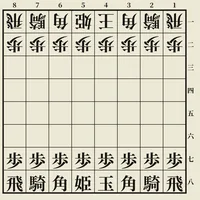
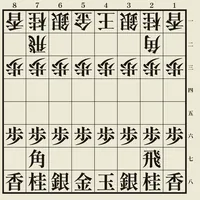
feat(game): the ōgi of the gold general and the free gold

diff --git a/gemu/index.html b/gemu/index.html
@@ -8,7 +8,7 @@
     <meta http-equiv="Content-Security-Policy" content="default-src 'self'; style-src 'self' 'unsafe-inline'">
 
     <meta name="viewport" content="width=device-width,initial-scale=1">
-    <meta name="description" content="王棋（おうぎ）は8x8の盤上で行われる将棋の変種です。このゲームでは「姫」という独特の駒と昇進ルールが特徴です。">
+    <meta name="description" content="王棋（おうぎ）は8x8の盤上で行われる将棋の変種です。王将の隣に立つ一枚だけの金将が、「姫」の字を記した奔金に成ることが特徴です。">
     <meta name="keywords" content="王棋, 将棋, 姫, 戦略ゲーム, ボードゲーム, 駒妖, 日本のゲーム">
     <meta name="robots" content="index,follow">
     <meta name="author" content="Cyril Veltin">
@@ -22,7 +22,7 @@
     <meta property="og:site_name" content="駒妖">
     <meta property="og:locale" content="ja_JP">
     <meta property="og:title" content="姫遊び｜関西の王棋">
-    <meta property="og:description" content="王棋（おうぎ）は8x8の盤上で行われる将棋の変種です。このゲームでは「姫」という独特の駒と昇進ルールが特徴です。">
+    <meta property="og:description" content="王棋（おうぎ）は8x8の盤上で行われる将棋の変種です。王将の隣に立つ一枚だけの金将が、「姫」の字を記した奔金に成ることが特徴です。">
     <meta property="og:type" content="article">
     <meta property="og:url" content="https://ja.komayo.page/gemu/">
     <meta property="og:image" content="https://ja.komayo.page/gemu/img/japanese-ghost-shogi-players-moonlight-temple-illustration,w_1024.webp">
@@ -31,11 +31,11 @@
     <meta property="og:image:alt" content="満月の夜、寺院の五重塔を背景に将棋を指す二人の男性。青い着物を纏った女性の幽霊が、月明かりに照らされながら静かに彼らを見つめている水墨画風のイラスト。">
     <meta property="og:article:author" content="Cyril Veltin">
     <meta property="og:article:published_time" content="2023-01-01">
-    <meta property="og:article:modified_time" content="2026-07-12">
+    <meta property="og:article:modified_time" content="2026-11-07">
 
     <meta name="twitter:card" content="summary_large_image">
     <meta name="twitter:title" content="姫遊び｜関西の王棋">
-    <meta name="twitter:description" content="王棋（おうぎ）は8x8の盤上で行われる将棋の変種です。このゲームでは「姫」という独特の駒と昇進ルールが特徴です。">
+    <meta name="twitter:description" content="王棋（おうぎ）は8x8の盤上で行われる将棋の変種です。王将の隣に立つ一枚だけの金将が、「姫」の字を記した奔金に成ることが特徴です。">
     <meta name="twitter:image" content="https://ja.komayo.page/gemu/img/japanese-ghost-shogi-players-moonlight-temple-illustration,w_1024.webp">
 
     <link rel="alternate" hreflang="x-default" href="https://en.komayo.page/game/">
@@ -67,12 +67,12 @@
           "name": "王棋",
           "headline": "姫遊び",
           "alternateName": ["王棋", "おうぎ", "姫遊び", "Hime Asobi"],
-          "description": "王棋（おうぎ）は8x8の盤上で行われる将棋の変種です。このゲームでは「姫」という独特の駒と昇進ルールが特徴です。",
-          "abstract": "将棋の8x8盤バリエーション。新しい駒「姫」の導入と従来のルールの一部変更が特徴。",
+          "description": "王棋（おうぎ）は8x8の盤上で行われる将棋の変種です。王将の隣に立つ一枚だけの金将が、「姫」の字を記した奔金に成ることが特徴です。",
+          "abstract": "将棋の駒組みを8x8盤に移した将棋の変種。一枚だけの金将が奔金（駒の字は「姫」）に成る。",
           "image": "https://ja.komayo.page/gemu/img/japanese-ghost-shogi-players-moonlight-temple-illustration,w_1024.webp",
           "thumbnailUrl": "https://ja.komayo.page/gemu/img/japanese-ghost-shogi-players-moonlight-temple-illustration,w_200.webp",
           "datePublished": "2023-01-01",
-          "dateModified": "2026-07-12",
+          "dateModified": "2026-11-07",
           "author": {
             "@type": "Person",
             "@id": "https://cyrilvelt.in/#identity",
@@ -107,7 +107,7 @@
             "maxValue": 2
           },
           "gameLocation": ["盤上", "オンライン"],
-          "characterAttribute": ["王将", "姫", "飛車", "角行", "騎行", "歩兵", "と金"],
+          "characterAttribute": ["王将", "金将", "奔金", "飛車", "龍王", "角行", "龍馬", "銀将", "桂馬", "香車", "歩兵", "と金"],
           "audience": {
             "@type": "Audience",
             "audienceType": "戦略ゲーム愛好家"
@@ -171,7 +171,7 @@
             itemprop="hasPart"
             itemscope
             itemtype="https://schema.org/Book"><cite itemprop="headline" lang="fr">La Genèse de l'Enchanteresse</cite></a>の主人公に由来しています。
-          この二つの呼び名は、ゲームにおいて姫が王と並んで戦略の中心的役割を担っているという特徴を反映しています。
+          この二つの呼び名は、王将の隣に立ち、成ると「姫」の字を現す金将という、このゲームならではの駒を映しています。
         </p>
 
         <h2>初期配置</h2>
@@ -189,7 +189,7 @@
               img/traditional-ogi-shogi-variant-starting-position-japanese-chess-diagram,w_862.webp 862w,
               img/traditional-ogi-shogi-variant-starting-position-japanese-chess-diagram,w_1024.webp 1024w"
             src="img/traditional-ogi-shogi-variant-starting-position-japanese-chess-diagram,w_1024.webp"
-            alt="8×8の盤上の王棋の初期配置。白黒の図には、漢字で記された各陣営の飛車・騎行・角行・姫・王将が最初の段に、8枚の歩兵が二段目に並んでいます。列は上部に8から1の算用数字で、段は右側に一から八の漢数字で示されています。"
+            alt="8×8の盤上の王棋の初期配置。白黒の図には、漢字で記された各陣営の香車・桂馬・銀将・金将・王将・銀将・桂馬・香車が最初の段に、飛車と角行が二段目に、8枚の歩兵が三段目に並んでいます。列は上部に8から1の算用数字で、段は右側に一から八の漢数字で示されています。"
           >
         </picture>
 
@@ -206,21 +206,14 @@
           <dt>駒の構成</dt>
           <dd>
             <ul>
-              <li>金将、銀将、香車は除外されています。</li>
-              <li>各陣営には飛車と角行が2枚ずつあります（将棋では各1枚）。</li>
-              <li>桂馬は、西洋チェスのナイトのように前後左右8方向へ跳べる<q>騎行</q>に置き換えられています。</li>
-              <li>新しい駒<q>姫</q>が導入されています。姫は角行と騎行の動きを併せ持ちます。</li>
+              <li>金将は各陣営に一枚だけです（将棋では二枚）。王将の隣に立ち、西洋チェスのクイーンのように、両陣営とも同じ筋に置かれます。</li>
+              <li>筋が一つ少ないため、歩兵は九枚ではなく八枚で、各陣営の駒は全部で18枚（将棋では20枚）です。</li>
+              <li>飛車・角行・銀将・桂馬・香車は将棋と同じです。</li>
             </ul>
           </dd>
 
           <dt>成り</dt>
-          <dd>成りを持つ駒は歩兵のみで、成るとと金になります。と金は、除外された金将の動きを受け継ぎます。成りの領域は最終段だけに縮小され、そこでの成りは強制かつ自動です。</dd>
-
-          <dt>二マス前進</dt>
-          <dd>まだ一度も動いていない歩兵は、一手で二マス前進できます。西洋チェスからの借用ですが、歩兵は正面の駒しか取れないため、アンパッサンはありません。</dd>
-
-          <dt>キャスリング</dt>
-          <dd>王将は、どちらの飛車とも西洋チェスとまったく同じようにキャスリングできます。王将をまだ動いていない飛車の方向へ二マス動かし、飛車は王将が通過したマスに置かれます。持ち駒から打たれた飛車は元のマスを離れているため、キャスリングには使えません。</dd>
+          <dd>将棋の金将とは異なり、王棋の金将は成ることができます。成ると奔金になり、その駒には<q>姫</q>の字が記されています。奔金は飛車のように縦横へ何マスでも進めるほか、斜め前の二方向にも何マスでも進めます。その他の駒は、将棋と同じく敵陣三段で成ります。</dd>
 
           <dt>終局</dt>
           <dd>ステイルメイト（手詰まり）と同一局面の三回出現は、チェスと同様に引き分けです&#8239;—&#8239;将棋では手詰まりは負けとなり、千日手の成立には四回を要します。50手ルールも適用されます。</dd>
@@ -258,7 +251,7 @@
 
     <footer>
       <p>
-        完全なルールは<a href="https://ja.ogi.page/" rel="external" title="王のゲーム">王棋の公式ページ</a>でご覧いただけます。
+        完全なルールは<a href="https://ja.ogi.page/" rel="external" title="王のゲーム">王棋のルールページ</a>でご覧いただけます。
       </p>
     </footer>
   </body>
